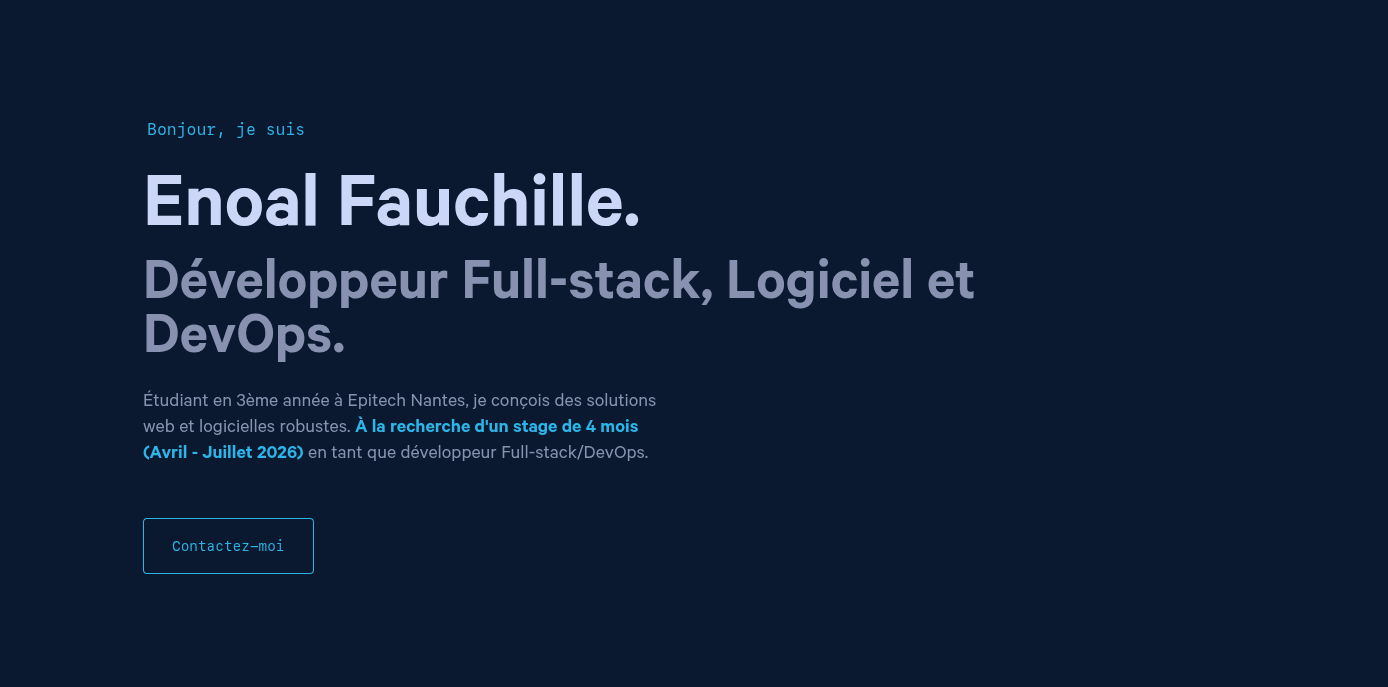
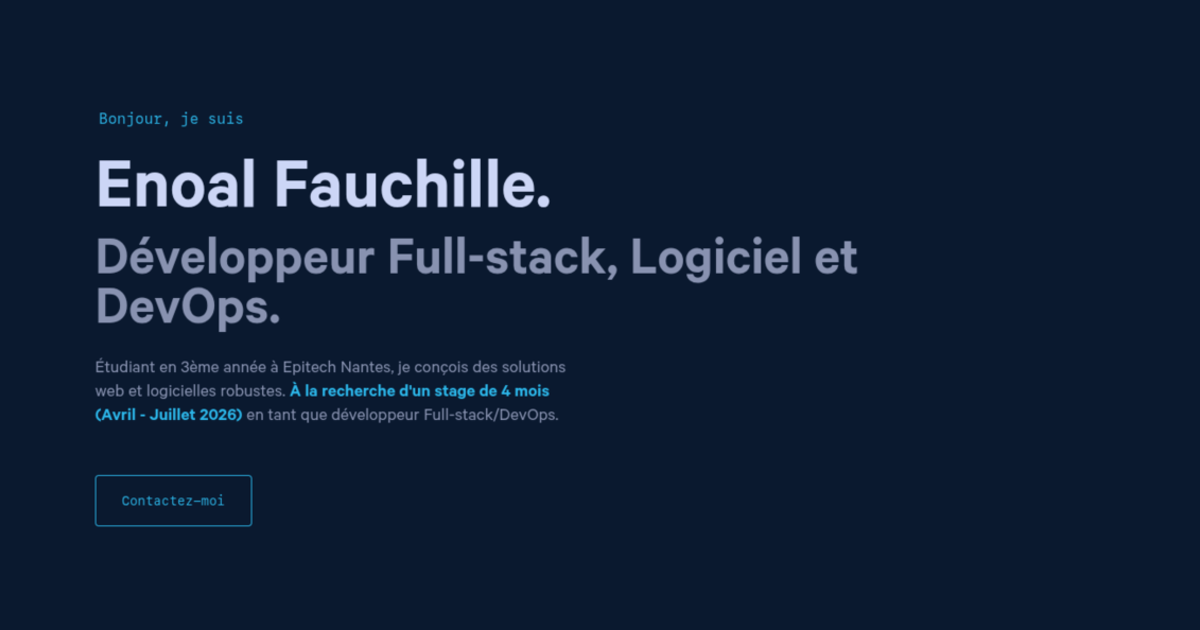
chore(head): add Open Graph image dimensions and update image file

diff --git a/src/components/head.js b/src/components/head.js
@@ -50,6 +50,8 @@ const Head = ({ title, description, image }) => {
       <meta property="og:title" content={seo.title} />
       <meta property="og:description" content={seo.description} />
       <meta property="og:image" content={seo.image} />
+      <meta property="og:image:width" content="1200" />
+      <meta property="og:image:height" content="630" />
       <meta property="og:url" content={seo.url} />
       <meta property="og:type" content="website" />
 
